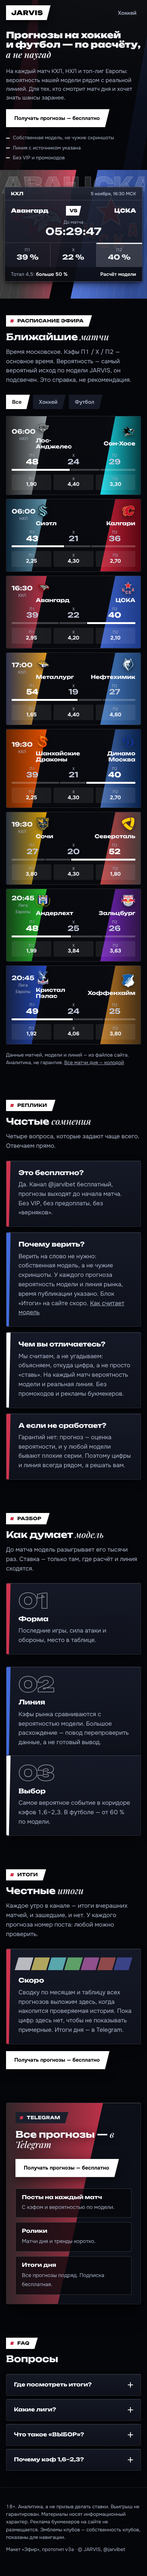
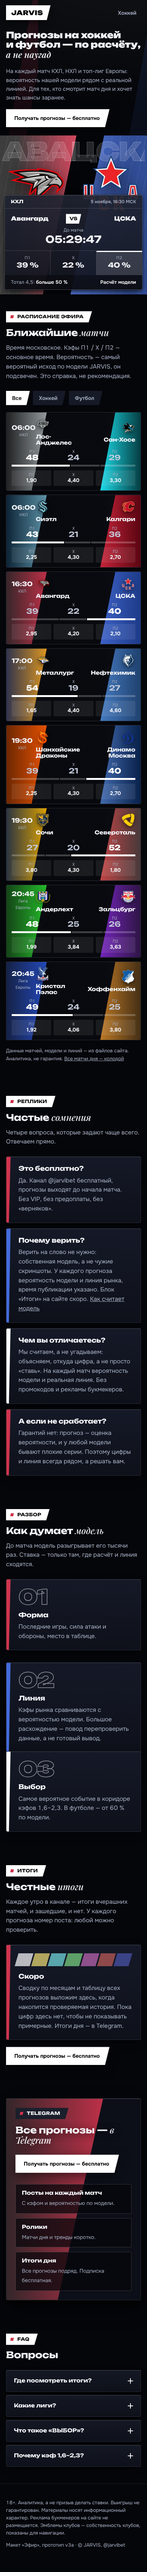
Эфир (прототип v3a): хоккей и матч, снимки
Claude-Session: https://claude.ai/code/session_018beMsGW2KNWUfPTL8TDXYR

Changed region(s): [[0.0, 0.0312, 1.0, 0.9357], [0.3077, 0.9669, 0.3385, 0.9981], [0.0615, 0.9669, 0.0923, 0.9981]]

diff --git a/team/site/v3a/proto/broadcast/hockey.html b/team/site/v3a/proto/broadcast/hockey.html
@@ -1,0 +1,64 @@
+<!doctype html>
+<html lang="ru">
+<head>
+<meta charset="utf-8">
+<meta name="viewport" content="width=device-width,initial-scale=1">
+<title>Хоккей: матчи КХЛ и НХЛ и прогнозы модели | JARVIS</title>
+<meta name="description" content="Прогноз на каждый матч КХЛ и НХЛ от собственной модели.">
+<meta name="theme-color" content="#05060a">
+<link rel="icon" href="../../favicon.svg">
+<link rel="preconnect" href="https://fonts.googleapis.com"><link rel="preconnect" href="https://fonts.gstatic.com" crossorigin>
+<link rel="stylesheet" href="https://fonts.googleapis.com/css2?family=Onest:wght@400;500;600;700&family=Unbounded:wght@600;700;900&family=Playfair+Display:ital,wght@1,500;1,600&display=swap">
+<link rel="stylesheet" href="broadcast.css">
+<script>document.documentElement.classList.add('js')</script>
+</head>
+<body data-page="hockey">
+<a class="skip" href="#main">К содержанию</a>
+<div class="bgw" aria-hidden="true"><i></i><i></i></div>
+<div class="vtw" aria-hidden="true"></div>
+<header class="top"><div class="wrap">
+<a class="logo" href="index.html" aria-label="JARVIS, главная"><b>JARVIS</b><span>ЭФИР <em>МСК <i data-clock style="font-style:normal">--:--</i></em></span></a>
+<nav class="nav" aria-label="Разделы"><a href="hockey.html" aria-current="page" class="n-keep">Хоккей</a><a href="index.html#f">Футбол</a><a href="hockey.html#model">Модель</a><a href="index.html#itogi">Итоги</a><a href="index.html#faq">Вопросы</a><a class="btn btn--sm" href="https://t.me/jarvibet">Получать прогнозы — бесплатно</a></nav>
+</div></header>
+<main id="main">
+<div class="ticker" aria-label="Матчи дня, бегущая строка"><div class="ticker__in"></div></div>
+<section class="hero"><div class="wrap hero__txt" style="align-items:center;padding-block:clamp(28px,5vw,64px)">
+<div class="hero__lead" style="gap:22px"><h1 style="font-size:clamp(30px,5vw,72px);font-weight:900"><span class="ln"><span>Хоккей:</span></span><span class="ln"><span class="it">КХЛ и НХЛ</span></span></h1><p>Прогноз на каждый матч от собственной модели. КХЛ днём, НХЛ ночью по Москве. Бесплатно, без VIP.</p><span class="btn-wrap"><a class="btn" href="https://t.me/jarvibet">Получать прогнозы — бесплатно</a></span>
+<div class="stats" data-stats data-reveal><div><b data-num="0" data-num-a>0</b><span>матчей в ближайшие дни</span></div><div><b data-num="0" data-num-b>0</b><span>с линией и расчётом модели</span></div><div><b data-num="2">2</b><span>лиги <img src="../../assets/lg/khl.webp" alt="КХЛ"> <img src="../../assets/lg/nhl.webp" alt="НХЛ"></span></div></div></div>
+<div class="mday glass" id="mday"></div></div></section>
+<section class="sec" id="deck" style="padding-top:20px"><div class="wrap"><div class="period rv"><span class="period__no"><b>1</b><span>-Й ПЕРИОД</span></span><span class="period__clk">20:00</span><i class="period__ln"></i></div>
+<div class="sec-h rv"><span class="tag"><i></i>Сегодня на льду</span><h2>Матчи <span class="it">дня</span></h2><p>КХЛ и НХЛ. Листай колоду свайпом, стрелками или колесом; нажми на карточку — расчёт модели, тотал, форма и личные встречи.</p></div>
+<div class="filters"><button class="chip" data-lg="all" aria-pressed="true">Все</button><button class="chip" data-lg="khl" aria-pressed="false">КХЛ</button><button class="chip" data-lg="nhl" aria-pressed="false">НХЛ</button></div>
+<div class="deck" id="deck-box"><div class="deck__st"></div><div class="deck__ctl"><button class="dprev" aria-label="Предыдущий матч"><svg viewBox="0 0 24 24" fill="none" stroke="#fff" stroke-width="2.5"><path d="M15 5l-7 7 7 7"/></svg></button><span class="deck__cnt">01 / 01</span><button class="dnext" aria-label="Следующий матч"><svg viewBox="0 0 24 24" fill="none" stroke="#fff" stroke-width="2.5"><path d="M9 5l7 7-7 7"/></svg></button><span class="deck__hint">Колесо, свайп или ← →</span></div></div>
+<div class="rows" id="today-rows"></div>
+<p class="note">Кэфы — справка, не рекомендация. Основное время, до матча кэфы меняются.</p></div></section>
+<section class="sec" id="clubs"><div class="wrap"><div class="period rv"><span class="period__no"><b>2</b><span>-Й ПЕРИОД</span></span><span class="period__clk">20:00</span><i class="period__ln"></i></div>
+<div class="sec-h rv"><span class="tag"><i></i>Лиги и клубы</span><h2>Две лиги, <span class="it">одна модель</span></h2><p>КХЛ — днём и вечером, НХЛ — ночью: ночные матчи собраны в один игровой день. Эмблемы — собственность клубов, показаны для навигации.</p></div>
+<div class="lgs rv"><div class="lg"><div class="lg__h"><img src="../../assets/lg/khl.webp" alt=""><h3>КХЛ<span>Клубы из матчей ближайших дней</span></h3></div><div class="clubs" id="clubs-khl"></div></div><div class="lg lg--n"><div class="lg__h"><img src="../../assets/lg/nhl.webp" alt=""><h3>НХЛ<span>Клубы из матчей ближайших дней</span></h3></div><div class="clubs" id="clubs-nhl"></div></div></div>
+<div class="sheet" style="margin-top:56px"><div class="glass sheet__l rv"><span class="tag tag--dark"><i></i>Для тех, кто считает сам</span><h2>Аналитическая <span class="it">таблица</span></h2><ul><li>Все матчи КХЛ и НХЛ в одном месте</li><li>Форма команд, вероятности модели и кэфы</li><li>Обновляется каждый игровой день</li></ul><span class="btn-wrap"><a class="btn" href="https://t.me/jarvibet">Хочу таблицу</a></span><p class="note">Оплата появится скоро. Сейчас доступ — через Telegram.</p></div>
+<div class="plate sheet__r rv"><i class="wb"></i><div class="sheet__sl">
+<div><span class="pill">Лист 1 · скоро</span><h3>Рейтинг Эло</h3><p>Сила каждой команды одним числом. Рейтинг пересчитывается после каждого матча: победа над сильным соперником стоит больше, чем над слабым.</p><ul><li>Все команды лиги в одном списке</li><li>Как менялась сила команды за сезон</li><li>Поправка на игру: броски в створ и шайбы сверх ожидания</li></ul></div>
+<div><span class="pill">Лист 2</span><h3>Прогнозы</h3><p>Все матчи ближайших дней на одном листе: время по Москве, прогноз модели, коэффициенты и вероятность. После игры рядом появляется счёт.</p><ul><li>КХЛ и НХЛ</li><li>Расчёт модели рядом с линией</li><li>Обновляется каждое утро</li></ul></div>
+<div><span class="pill">Лист 3 · скоро</span><h3>Что заходит</h3><p>Как часто у каждой команды случается то или иное событие за сезон: победа, тотал больше или меньше, игра в овертайм.</p><ul><li>Видно сильные и слабые стороны каждой команды</li><li>Конструктор матча: выбираешь две команды и видишь, что вероятнее</li></ul></div>
+<div><span class="pill">Лист 4</span><h3>Расписание</h3><p>Все матчи сезона с датой и временем по Москве. У сыгранных стоит счёт, отмечены овертаймы и буллиты.</p><ul><li>Сегодня, завтра и вся неделя</li><li>Ночные матчи НХЛ собраны в один игровой день</li></ul></div>
+<div><span class="pill">Лист 5 · скоро</span><h3>История ставок</h3><p>Каждый прогноз остаётся в таблице: зашёл или нет и по какому кэфу. Видно, как часто модель угадывает и как менялся банк на дистанции.</p><ul><li>Точность модели по фаворитам и аутсайдерам</li><li>Ничего не удаляется</li></ul></div>
+<div><span class="pill">Лист 6</span><h3>И это только часть</h3><p>Всего в таблице больше 20 листов: коэффициенты, купон дня, точность модели, карточки команд, статистика, травмы и ключевые игроки.</p><ul><li>Модель против рынка — чья оценка точнее</li><li>Банкролл — симуляция на дистанции</li><li>Досье команд — травмы, тренер, форма</li></ul></div></div>
+<div class="sheet__ctl"><button class="sprev" aria-label="Назад"><svg width="18" height="18" viewBox="0 0 24 24" fill="none" stroke="#fff" stroke-width="2.5"><path d="M15 5l-7 7 7 7"/></svg></button><span class="cnt">1 / 6</span><button class="snext" aria-label="Вперёд"><svg width="18" height="18" viewBox="0 0 24 24" fill="none" stroke="#fff" stroke-width="2.5"><path d="M9 5l7 7-7 7"/></svg></button><div class="dots"></div></div></div></div>
+</div></section>
+<section class="sec" id="model-t"><div class="wrap"><div class="period rv"><span class="period__no"><b>3</b><span>-Й ПЕРИОД</span></span><span class="period__clk">20:00</span><i class="period__ln"></i></div>
+<div class="sec-h rv" id="model"><span class="tag"><i></i>Прогноз модели</span><h2>Прогноз <span class="it">модели</span></h2><p>Все матчи КХЛ и НХЛ ближайших дней: вероятность модели рядом с линией. Белая отметка на шкале — доля линии без маржи.</p></div>
+<div class="mt" id="mt"></div></div></section>
+<section class="sec" id="think"><div class="wrap"><div class="sec-h rv"><span class="tag"><i></i>Разбор</span><h2>Как думает <span class="it">модель</span></h2><p>Три шага от данных к выбору. Выбор для канала делает человек по правилам ниже, а не сама модель.</p></div>
+<div class="grid3 steps rv"><article class="plate step"><i class="wb"></i><span class="no">01</span><h3>Форма</h3><p>Последние игры, сила атаки и обороны, место в таблице.</p></article><article class="plate step"><i class="wb"></i><span class="no">02</span><h3>Линия</h3><p>Кэфы рынка сравниваются с вероятностью модели. Большое расхождение — повод перепроверить данные, а не готовый вывод.</p></article><article class="plate step"><i class="wb"></i><span class="no">03</span><h3>Выбор</h3><p>Самое вероятное событие в коридоре кэфов 1,6–2,3. В футболе — от 60 % по модели.</p></article></div></div></section>
+<section class="sec"><div class="wrap"><div class="sec-h rv"><span class="tag"><i></i>Шкала кэфов</span><h2>Почему <span class="it">1,6–2,3</span></h2><p>Ниже — мало смысла рисковать, выше — больше случайности, чем расчёта.</p></div>
+<div class="corr rv glass"><div class="corr__ax"><i style="left:20.0%;width:35.0%"></i><b style="left:0">1,2</b><b style="left:20.0%">1,6</b><b style="left:55.0%">2,3</b><b style="left:100%">3,2</b></div></div></div></section>
+<section class="sec" id="itogi"><div class="wrap"><div class="sec-h rv"><span class="tag"><i></i>Итоги</span><h2>Честные <span class="it">итоги</span></h2><p>Каждое утро в канале — итоги вчерашних матчей, и зашедшие, и нет. У каждого прогноза номер поста: любой можно проверить.</p></div>
+<div class="soon rv"><div class="plate"><i class="wb"></i><div class="bars" aria-hidden="true"><i></i><i></i><i></i><i></i><i></i><i></i><i></i></div><h3>Скоро</h3><p>Сводку по месяцам и таблицу всех прогнозов выложим здесь, когда накопится проверяемая история. Пока цифр здесь нет, чтобы не показывать примерные. Итоги дня — в Telegram.</p></div><div><span class="btn-wrap"><a class="btn" href="https://t.me/jarvibet">Получать прогнозы — бесплатно</a></span></div></div></div></section>
+<section class="sec" id="doubts"><div class="wrap"><div class="sec-h rv"><span class="tag"><i></i>Реплики</span><h2>Частые <span class='it'>сомнения</span></h2><p>Коротко о главном.</p></div>
+<div class="grid2"><article class="plate rv" style="--i:0"><i class="wb"></i><h3>Это бесплатно?</h3><p>Да. Канал @jarvibet бесплатный, прогнозы выходят до начала матча. Без VIP, без предоплаты, без «верняков».</p></article><article class="plate rv" style="--i:1"><i class="wb"></i><h3>Почему верить?</h3><p>Верить на слово не нужно: собственная модель, а не чужие скриншоты. У каждого прогноза вероятность модели и линия рынка, время публикации указано. Блок «Итоги» на сайте скоро. <a href="hockey.html#model">Как считает модель</a></p></article><article class="plate rv" style="--i:2"><i class="wb"></i><h3>Чем вы отличаетесь?</h3><p>Мы считаем, а не угадываем: объясняем, откуда цифра, а не просто «ставь». На каждый матч вероятность модели и реальная линия. Без промокодов и рекламы букмекеров.</p></article><article class="plate rv" style="--i:3"><i class="wb"></i><h3>А если не сработает?</h3><p>Гарантий нет: прогноз — оценка вероятности, и у любой модели бывают плохие серии. Поэтому цифры и линия всегда рядом, а решать вам.</p></article></div></div></section>
+<section class="sec" id="tg"><div class="wrap"><div class="tg rv"><span class="tag tag--dark"><i></i>Telegram</span><h2 style="margin-top:16px">Все прогнозы — <span class="it">в Telegram</span></h2><span class="btn-wrap"><a class="btn" href="https://t.me/jarvibet">Получать прогнозы — бесплатно</a></span><div class="tg__cols"><div><b>Посты на каждый матч</b><span>С кэфом и вероятностью по модели.</span></div><div><b>Ролики</b><span>Матчи дня и тренды коротко.</span></div><div><b>Итоги дня</b><span>Все прогнозы подряд. Подписка бесплатная.</span></div></div></div></div></section>
+<section class="sec" id="faq"><div class="wrap"><div class="sec-h rv"><span class="tag"><i></i>FAQ</span><h2>Вопросы</h2><p>Футбол — топ-лиги Европы и Лига чемпионов, та же модель и те же честные итоги. <a href="index.html#f">Прогнозы на футбол</a></p></div><div class="faq"><details class="rv"><summary>Где посмотреть итоги?</summary><p>Каждое утро в канале и здесь, в разделе «Итоги»: все прогнозы подряд, с номером поста и счётом матча.</p></details><details class="rv"><summary>Какие лиги?</summary><p>Хоккей: КХЛ и НХЛ. Футбол: АПЛ, Ла Лига, Серия А, Бундеслига, Лига 1, Португалия и Лига чемпионов.</p></details><details class="rv"><summary>Что такое «ВЫБОР»?</summary><p>Ставка, у которой модель даёт от 60 % при кэфе от 1,6. Остальные матчи — разбор без выбора.</p></details><details class="rv"><summary>Почему кэф 1,6–2,3?</summary><p>Ниже — мало смысла рисковать, выше — больше случайности, чем расчёта.</p></details><details class="rv"><summary>Когда выходят прогнозы?</summary><p>КХЛ — до 08:00 по Москве, НХЛ — до 14:00. Ночные матчи НХЛ собраны в один игровой день.</p></details></div></div></section>
+</main><footer class="foot"><div class="wrap"><p>18+. Аналитика, а не призыв делать ставки. Выигрыш не гарантирован. Материалы носят информационный характер. Реклама букмекеров на сайте не размещается. Эмблемы клубов — собственность клубов, показаны для навигации.</p><p>Макет «Эфир», прототип v3a · © JARVIS, @jarvibet</p></div></footer>
+<script src="../../data/today.js"></script><script src="../../data/model.js"></script><script src="../../data/lines.js"></script><script src="../../assets/club/themes.js"></script>
+<script src="broadcast.js"></script>
+</body></html>

diff --git a/team/site/v3a/proto/broadcast/match.html b/team/site/v3a/proto/broadcast/match.html
@@ -1,0 +1,43 @@
+<!doctype html>
+<html lang="ru">
+<head>
+<meta charset="utf-8">
+<meta name="viewport" content="width=device-width,initial-scale=1">
+<title>Авангард — ЦСКА: прогноз на матч 5 ноября 2026, КХЛ</title>
+<meta name="description" content="Расчёт модели, кэфы, форма, личные встречи и положение в таблице.">
+<meta name="theme-color" content="#05060a">
+<link rel="icon" href="../../favicon.svg">
+<link rel="preconnect" href="https://fonts.googleapis.com"><link rel="preconnect" href="https://fonts.gstatic.com" crossorigin>
+<link rel="stylesheet" href="https://fonts.googleapis.com/css2?family=Onest:wght@400;500;600;700&family=Unbounded:wght@600;700;900&family=Playfair+Display:ital,wght@1,500;1,600&display=swap">
+<link rel="stylesheet" href="broadcast.css">
+<script>document.documentElement.classList.add('js')</script>
+</head>
+<body data-page="match">
+<a class="skip" href="#main">К содержанию</a>
+<div class="bgw" aria-hidden="true"><i></i><i></i></div>
+<div class="vtw" aria-hidden="true"></div>
+<header class="top"><div class="wrap">
+<a class="logo" href="index.html" aria-label="JARVIS, главная"><b>JARVIS</b><span>ЭФИР <em>МСК <i data-clock style="font-style:normal">--:--</i></em></span></a>
+<nav class="nav" aria-label="Разделы"><a href="hockey.html" aria-current="page" class="n-keep">Хоккей</a><a href="index.html#f">Футбол</a><a href="hockey.html#model">Модель</a><a href="index.html#itogi">Итоги</a><a href="index.html#faq">Вопросы</a><a class="btn btn--sm" href="https://t.me/jarvibet">Получать прогнозы — бесплатно</a></nav>
+</div></header>
+<main id="main"><div class="wrap"><ol class="crumbs"><li><a href="index.html">Главная</a></li><li><a href="hockey.html">Хоккей</a></li><li><a href="hockey.html#deck">Прогноз на сегодня: КХЛ</a></li><li id="m-bc">Авангард — ЦСКА</li></ol></div>
+<section class="hero mh"><div class="wrap" style="padding-bottom:18px"><h1 id="m-h1">Авангард — ЦСКА</h1><p id="m-sub">прогноз на матч 5 ноября</p></div><div id="m-stage"></div>
+<div class="wrap"><div class="facts glass" style="margin-top:14px"><div><small>Когда</small><b id="m-when">5 ноября, четверг<span>16:30 МСК</span></b></div><div><small>Арена</small><b id="m-arena"></b></div><div><small>Турнир</small><b id="m-lg">КХЛ</b></div></div><p class="upd" id="m-upd">Данные обновлены 05.11 в 04:23 МСК.</p></div></section>
+<div class="wrap" id="m-note" hidden><p class="note" style="padding:20px 0">Пример данных: в прототипе подробный разбор (форма, очные встречи, таблица) есть только у матча дня «Авангард — ЦСКА»; для других матчей показаны расчёт модели и кэфы из файлов сайта.</p></div>
+<section class="sec" style="padding-top:36px"><div class="wrap"><div class="sec-h rv"><span class="tag"><i></i>Расчёт модели</span><h2>Вероятности <span class="it">и тотал</span></h2><p>П1 · победа хозяев, Х · ничья в основное время, П2 · победа гостей.</p></div>
+<div class="calc"><div class="glass cols" id="m-cols"></div><div class="plate tot" id="m-tot"></div></div></div></section>
+<section class="sec" style="padding-top:20px"><div class="wrap"><div class="sec-h rv"><span class="tag"><i></i>Кэфы на матч</span><h2>Линия <span class="it">рынка</span></h2><p>Нажми на кэф: рядом покажем долю линии без маржи и оценку модели.</p></div>
+<div class="odds rv" id="m-odds"></div><p class="note">Основное время; кэфы на момент последнего обновления данных, до матча они меняются. Это справка, не рекомендация. Цифры считает модель по данным сайта, а не эксперт. Это вероятности, а не гарантия исхода. <a href="hockey.html#model">Как считает модель</a> · <a href="../../glossary.html">словарь терминов</a>.</p></div></section>
+<section class="sec shorts" data-feat style="padding-top:20px"><div class="wrap"><div class="sec-h rv"><span class="tag"><i></i>Коротко о матче</span><h2>Коротко <span class="it">о матче</span></h2></div><div class="plate rv"><i class="wb"></i><p style="color:var(--ink)">По таблице: Авангард — 7-е место, 22 очка за 20 матчей; ЦСКА — 1-е место, 34 очка за 22 матча. В последних 5 матчах: Авангард — 2 победы, 3 поражения, ЦСКА — 4 победы, 1 поражение. Шансы по модели близки: Авангард — 39 %, ЦСКА — 40 %. Модель ждёт около 4,7 гола в матче: 2,3 у хозяев и 2,4 у гостей. Очные встречи из данных (4): Авангард — 3 победы, ЦСКА — 1 победа. Это оценка вероятностей по данным, а не обещание исхода.</p></div></div></section>
+<section class="sec" data-feat style="padding-top:20px"><div class="wrap"><div class="sec-h rv"><span class="tag"><i></i>Форма · последние 5</span><h2>Форма <span class="it">команд</span></h2></div>
+<div class="form"><div class="plate form__t" style="--c1:#282828;--c2:var(--hb);padding:0"><div class="form__h" style="--c1:var(--hd);--c2:var(--hb)"><b>Авангард</b></div><div class="fm l rv" style="--i:0"><i>П</i><time>22.10</time><span>дома<small>Нефтехимик</small></span><b>2:3<small></small></b></div><div class="fm w rv" style="--i:1"><i>В</i><time>26.10</time><span>в гостях<small>Динамо Москва</small></span><b>3:2<small>ОТ</small></b></div><div class="fm w rv" style="--i:2"><i>В</i><time>28.10</time><span>в гостях<small>Ак Барс</small></span><b>4:0<small></small></b></div><div class="fm l rv" style="--i:3"><i>П</i><time>30.10</time><span>в гостях<small>Лада</small></span><b>2:3<small>ОТ</small></b></div><div class="fm l rv" style="--i:4"><i>П</i><time>01.11</time><span>в гостях<small>Сочи</small></span><b>1:2<small>ОТ</small></b></div></div><div class="plate form__t" style="padding:0"><div class="form__h" style="--c1:var(--ad);--c2:var(--ab)"><b>ЦСКА</b></div><div class="fm l rv" style="--i:0"><i>П</i><time>23.10</time><span>в гостях<small>Автомобилист</small></span><b>1:5<small></small></b></div><div class="fm w rv" style="--i:1"><i>В</i><time>25.10</time><span>в гостях<small>СКА</small></span><b>3:1<small></small></b></div><div class="fm w rv" style="--i:2"><i>В</i><time>28.10</time><span>дома<small>Трактор</small></span><b>5:1<small></small></b></div><div class="fm w rv" style="--i:3"><i>В</i><time>01.11</time><span>в гостях<small>Трактор</small></span><b>3:2<small>ОТ</small></b></div><div class="fm w rv" style="--i:4"><i>В</i><time>03.11</time><span>в гостях<small>Металлург</small></span><b>7:3<small>ОТ</small></b></div></div></div></div></section>
+<section class="sec" data-feat style="padding-top:20px"><div class="wrap"><div class="sec-h rv"><span class="tag"><i></i>Личные встречи</span><h2>Личные <span class="it">встречи</span></h2></div>
+<div class="plate rv tbl-wrap" style="padding:0"><table class="tbl"><thead><tr><th>Дата</th><th>Хозяева</th><th class="num">Счёт</th><th>Гости</th></tr></thead><tbody><tr><td>04.03.2026</td><td>ЦСКА</td><td class="num"><span class="fig">0:2</span></td><td>Авангард</td></tr><tr><td>15.01.2026</td><td>Авангард</td><td class="num"><span class="fig">2:1</span></td><td>ЦСКА</td></tr><tr><td>04.02.2025</td><td>ЦСКА</td><td class="num"><span class="fig">2:1 Б</span></td><td>Авангард</td></tr><tr><td>17.01.2025</td><td>Авангард</td><td class="num"><span class="fig">4:0</span></td><td>ЦСКА</td></tr></tbody></table></div><p class="note">Последние встречи из данных сайта; ОТ и Б — овертайм и буллиты.</p></div></section>
+<section class="sec" data-feat style="padding-top:20px"><div class="wrap"><div class="sec-h rv"><span class="tag"><i></i>Положение</span><h2>Положение <span class="it">в таблице</span></h2></div>
+<div class="plate rv tbl-wrap" style="padding:0"><table class="tbl"><thead><tr><th>Команда</th><th class="num">Место</th><th class="num">И</th><th class="num">В</th><th class="num">П</th><th class="num">Голы</th><th class="num">Очки</th></tr></thead><tbody><tr><td><b>Авангард</b></td><td class="num">7</td><td class="num">20</td><td class="num">10</td><td class="num">10</td><td class="num">40:47</td><td class="num"><b>22</b></td></tr><tr><td><b>ЦСКА</b></td><td class="num">1</td><td class="num">22</td><td class="num">17</td><td class="num">5</td><td class="num">73:42</td><td class="num"><b>34</b></td></tr></tbody></table></div><p class="note">И — игры, В — победы, П — поражения (в основное и дополнительное время).</p></div></section>
+<section class="sec" style="padding-top:20px"><div class="wrap"><div class="sec-h rv"><span class="tag"><i></i>Другие матчи</span><h2 id="m-other-h">Другие матчи КХЛ в этот день</h2></div><div class="rows" id="m-other"></div></div></section>
+<section class="sec" style="padding-top:20px"><div class="wrap"><div class="links"><a href="hockey.html">Лига: КХЛ</a><a href="hockey.html#deck">Прогноз на сегодня: КХЛ</a><a href="hockey.html#deck">Все матчи дня колодой</a></div><span class="btn-wrap"><a class="btn" href="https://t.me/jarvibet">Получать прогнозы — бесплатно</a></span><p class="disc">Материалы носят информационный характер и не гарантируют результат. Реклама букмекеров на сайте не размещается. Сайт только для совершеннолетних (18+).</p></div></section>
+</main><footer class="foot"><div class="wrap"><p>18+. Аналитика, а не призыв делать ставки. Выигрыш не гарантирован. Материалы носят информационный характер. Реклама букмекеров на сайте не размещается. Эмблемы клубов — собственность клубов, показаны для навигации.</p><p>Макет «Эфир», прототип v3a · © JARVIS, @jarvibet</p></div></footer>
+<script src="../../data/today.js"></script><script src="../../data/model.js"></script><script src="../../data/lines.js"></script><script src="../../assets/club/themes.js"></script>
+<script src="broadcast.js"></script>
+</body></html>

diff --git a/team/site/v3a/proto/broadcast/broadcast.js b/team/site/v3a/proto/broadcast/broadcast.js
@@ -46,7 +46,7 @@ function setPageColors(m){var c=cols(m),r=D.documentElement.style;r.setProperty(
 function mskNow(){return new Date().toLocaleTimeString('ru-RU',{timeZone:'Europe/Moscow',hour:'2-digit',minute:'2-digit'})}
 function p2(n){return (n<10?'0':'')+n}
 function cd(m){var s=Math.floor((ep(m)-Date.now())/1000);
-  if(s<=0)return s>-10800?'идёт':'старт был '+hhmm(m);
+  if(s<=0)return s>-10800?'идёт':'старт '+hhmm(m);
   var d=Math.floor(s/86400),h=Math.floor(s%86400/3600),mi=Math.floor(s%3600/60),se=s%60;
   return (d?d+' д ':'')+p2(h)+':'+p2(mi)+':'+p2(se)}
 function tickCd(){$$('[data-cd]').forEach(function(e){var m=byKey(e.dataset.cd);if(m)e.textContent=cd(m)})}
@@ -155,10 +155,10 @@ function hockey(){
     '<div class="mday__box"><span class="tag"><i></i>'+LGN[f.lg]+' · '+hhmm(f)+' МСК</span><div><b style="font:700 19px/1.2 var(--f-d)">Прогноз дня</b><div style="color:var(--mute);margin-top:4px">'+esc(f.hn)+' — '+esc(f.an)+'</div></div>'+
     '<div><small style="color:var(--mute)">До матча</small><div class="big" data-cd="'+f.key+'">'+cd(f)+'</div></div>'+
     '<p style="color:var(--mute);font-size:13.5px">Посты с прогнозами выходят в канале: КХЛ — до 08:00 МСК, НХЛ — до 14:00.</p>'+
-    '<a class="btn btn-wrap vt-link" style="width:max-content" href="match.html?k='+encodeURIComponent(f.key)+'" data-vd="'+c.hd+'" data-vb="'+c.hb+'">Расчёт модели</a></div>'}
+    '<a class="btn vt-link" style="width:max-content" href="match.html?k='+encodeURIComponent(f.key)+'" data-vd="'+c.hd+'" data-vb="'+c.hb+'">Расчёт модели</a></div>'}
   var st=$('[data-stats]');if(st){var k=hk.length;st.querySelector('[data-num-a]').dataset.num=k;st.querySelector('[data-num-b]').dataset.num=hk.filter(function(m){return M[m.key]&&L[m.key]}).length}
   /* колода */
-  var dk=$('#deck');
+  var dk=$('#deck-box');
   if(dk){
     var day0=J.days[0],cur=0,flt='all',cards=[];
     function pool(){return hk.filter(function(m){return m.t.slice(0,10)===day0&&(flt==='all'||m.lg===flt)})}
@@ -220,7 +220,7 @@ function match(){
   if(o){var p=pr(m.key),mxs=[p.a,p.x,p.b];
     var cl=[[c.hd,c.hb],['#262c3d','#8d97b0'],[c.ad,c.ab]];
     $('#m-cols').innerHTML=[['П1','победа хозяев',p.a],['Х','ничья в основное время',p.x],['П2','победа гостей',p.b]].map(function(r,i){
-      return '<div class="col '+(i===1?'col--x':'')+'" style="--k:'+i+'"><span class="col__n"><span data-num="'+r[2]+'">'+r[2]+'</span><sup>%</sup></span><div class="col__bar"><i style="--v:'+r[2]+'%;--cd:'+cl[i][0]+';--cb:'+cl[i][1]+';transition-delay:'+(i*.28)+'s"></i></div><b class="nm">'+r[0]+'</b><small>'+r[1]+'</small></div>'}).join('');
+      return '<div class="col '+(i===1?'col--x':'')+'" style="--k:'+i+'"><span class="col__n"><span data-num="'+r[2]+'">'+r[2]+'</span><sup>%</sup></span><div class="col__bar"><i style="--v:'+Math.min(100,r[2]*2.1)+'%;--cd:'+cl[i][0]+';--cb:'+cl[i][1]+';transition-delay:'+(i*.28)+'s"></i></div><b class="nm">'+r[0]+'</b><small>'+r[1]+'</small></div>'}).join('');
     $('#m-tot').innerHTML=(o.tot?'<div class="tot__p"><small>Тотал '+num1(o.tot)+'</small><b>больше <span data-num="'+pct(o.over)+'">'+pct(o.over)+'</span> %</b></div>':'')+
      (o.lam?'<div class="xg"><small style="color:var(--mute)">Ожидаемые голы</small><div class="xg__r"><span>'+esc(m.hn)+'</span><i style="--c:'+c.hb+';--v:'+(o.lam[0]/Math.max(o.lam[0],o.lam[1]))+'"></i><b>'+num1(o.lam[0])+'</b></div><div class="xg__r"><span>'+esc(m.an)+'</span><i style="--c:'+c.ab+';--v:'+(o.lam[1]/Math.max(o.lam[0],o.lam[1]))+'"></i><b>'+num1(o.lam[1])+'</b></div></div>':'');
   }

diff --git a/team/site/v3a/proto/broadcast/broadcast.css b/team/site/v3a/proto/broadcast/broadcast.css
@@ -395,7 +395,7 @@ section{position:relative}
 .col{display:grid;gap:8px;justify-items:stretch;text-align:left}
 .col__n{font:900 clamp(34px,5.2vw,64px)/1 var(--f-d);font-variant-numeric:tabular-nums;letter-spacing:-.02em;min-height:1em}
 .col__n sup{font-size:.42em;font-weight:700;vertical-align:top;margin-left:2px;position:relative;top:.2em}
-.col__bar{height:190px;display:flex;align-items:flex-end;background:repeating-linear-gradient(0deg,rgba(255,255,255,.09) 0 1px,transparent 1px 38px)}
+.col__bar{height:240px;display:flex;align-items:flex-end;background:repeating-linear-gradient(0deg,rgba(255,255,255,.09) 0 1px,transparent 1px 38px)}
 .col__bar i{display:block;width:100%;height:var(--v);transform-origin:bottom;transform:scaleY(var(--g,1));background:linear-gradient(0deg,var(--cd),var(--cb));clip-path:polygon(0 0,100% 12%,100% 100%,0 100%);transition:transform .9s var(--ease)}
 .col--x .col__bar i{--cd:#262c3d;--cb:#8d97b0}
 .col small{font-size:12.5px;color:var(--mute);line-height:1.25}
@@ -499,3 +499,15 @@ html.vt .vtw{display:block}
 em.it,.it{font-family:var(--f-s);font-style:italic;font-weight:500;letter-spacing:0}
 .hero h1 .it{font-weight:600}
 @media(max-width:700px){.stage__big{top:4%;font-size:15vw}.stage__em{width:min(46vw,170px)!important;margin-top:-72px!important;top:36%!important}}
+
+@media(max-width:700px){
+  .stage--mini{--sh:150px!important}
+  .stage--mini .stage__em{width:92px!important;margin-top:-46px!important;top:50%!important}
+  .hero .stage{--sh:420px}
+  .hero .checks{display:none}
+  .hero .bug{top:auto;bottom:12px;transform:translateX(-50%);animation-name:plateInM}
+  .hero .stage__em{top:27%!important}
+  .hero .stage__big{font-size:17vw;top:3%}
+  #m-stage .stage{--sh:420px}#m-stage .bug{top:auto;bottom:12px;transform:translateX(-50%);animation-name:plateInM}#m-stage .stage__em{top:27%!important}
+}
+@keyframes plateInM{from{opacity:0;transform:translateX(-50%) translateY(16px) scale(.97)}}
